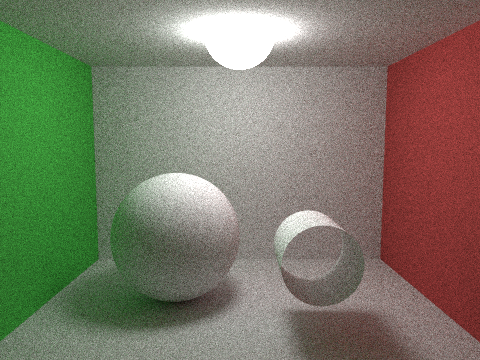
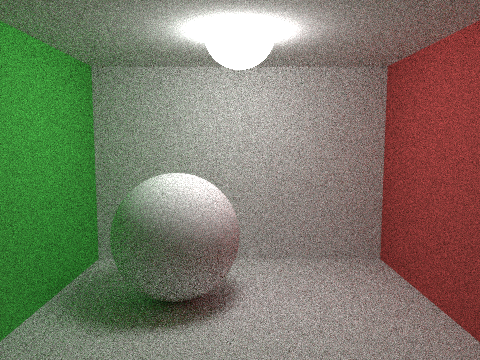
Hacked in Monte Carlo Integration using cosine hemisphere PDF

diff --git a/src/main.rs b/src/main.rs
@@ -12,6 +12,7 @@ use crate::material::{Diffuse, Light};
 use crate::ray::Ray;
 use crate::scene::Scene;
 use crate::sphere::Sphere;
+use std::f32::consts::PI;
 
 mod bounds;
 mod bvh;
@@ -66,7 +67,9 @@ fn cast_ray(ray: &Ray, scene: &Scene, depth: u32, rng: &mut ThreadRng) -> Colour
         if let Some(material) = scene.materials.get(rec.material_id) {
             let emitted = material.emitted(0.0, 0.0, &rec.point);
             if let Some((scattered, colour)) = material.scatter(ray, &rec, rng) {
-                pixel_colour += emitted + colour * cast_ray(&scattered, scene, depth - 1, rng);
+                let pdf = 0.5 / PI;
+                pixel_colour +=
+                    emitted + colour * cast_ray(&scattered, scene, depth - 1, rng) / pdf;
             } else {
                 pixel_colour += emitted;
             }
@@ -74,8 +77,43 @@ fn cast_ray(ray: &Ray, scene: &Scene, depth: u32, rng: &mut ThreadRng) -> Colour
             pixel_colour = Colour::error();
         }
     }
+    // else {
+    //     pixel_colour = Colour::new(1.0, 1.0, 1.0);
+    // }
 
     pixel_colour
+}
+
+fn furnace_test(aspect_ratio: f32) -> (Scene, Camera) {
+    let mut scene = Scene::default();
+
+    let sphere_mat = scene.add_material(Box::new(Diffuse::new(Colour::new(0.18, 0.18, 0.18))));
+
+    let sphere = Sphere::new(Vec3::new(0.0, 0.0, 0.0), 1.0, sphere_mat, false);
+    scene.add_object(Box::new(sphere));
+
+    scene.generate_bvh();
+
+    // Camera Setup
+    let origin = Vec3::new(0.0, 0.0, -5.0);
+    let target = Vec3::new(0.0, 0.0, 0.0);
+    let up = Vec3::new(0.0, 1.0, 0.0);
+    let fov = 50.0;
+    let aperture = 0.0;
+    let focus_distance = 10.0;
+    let camera = Camera::new(
+        origin,
+        target,
+        up,
+        fov,
+        aspect_ratio,
+        aperture,
+        focus_distance,
+        0.001,
+        std::f32::INFINITY,
+    );
+
+    (scene, camera)
 }
 
 fn scene_setup(aspect_ratio: f32) -> (Scene, Camera) {
@@ -88,7 +126,7 @@ fn scene_setup(aspect_ratio: f32) -> (Scene, Camera) {
     let right_wall_mat = scene.add_material(Box::new(Diffuse::new(Colour::new(0.1, 0.6, 0.1))));
     let sphere_mat = scene.add_material(Box::new(Diffuse::new(Colour::new(0.8, 0.8, 0.8))));
     // let sphere_mat2 = scene.add_material(Box::new(Diffuse::new(Colour::new(1.0, 0.0, 0.0))));
-    let cylinder_mat = scene.add_material(Box::new(Diffuse::new(Colour::new(0.9, 0.9, 0.9))));
+    // let cylinder_mat = scene.add_material(Box::new(Diffuse::new(Colour::new(0.9, 0.9, 0.9))));
     let light_mat = scene.add_material(Box::new(Light::new(Colour::new(1.0, 1.0, 1.0), 20.0)));
 
     // Objects Setup
@@ -108,8 +146,8 @@ fn scene_setup(aspect_ratio: f32) -> (Scene, Camera) {
     // let sphere2 = Sphere::new(Vec3::new(-1.0, 0.0, 1.0), 1.0, sphere_mat, false);
     // scene.add_object(Box::new(sphere2));
 
-    let pos = Vec3::new(-1.0, 0.0, 0.0);
-    let y_rot = 0.0_f32.to_radians();
+    // let pos = Vec3::new(-1.0, 0.0, 0.0);
+    // let y_rot = 0.0_f32.to_radians();
     // let mut otw = Mat4::from_translation(pos);
     // let rot = Mat4::from_rotation_y(y_rot);
     // otw = otw * rot;
@@ -117,16 +155,16 @@ fn scene_setup(aspect_ratio: f32) -> (Scene, Camera) {
     // let rot = Mat4::from_rotation_y(-y_rot);
     // wto = rot * wto;
     // let cylinder = Cylinder::from_transform(otw, wto, 0.5, -0.5, 0.5, cylinder_mat, false);
-    let cylinder = Cylinder::new(
-        pos,
-        0.5,
-        1.0,
-        Rotor3::from_rotation_xz(y_rot),
-        1.0,
-        cylinder_mat,
-        false,
-    );
-    scene.add_object(Box::new(cylinder));
+    // let cylinder = Cylinder::new(
+    //     pos,
+    //     0.5,
+    //     1.0,
+    //     Rotor3::from_rotation_xz(y_rot),
+    //     1.0,
+    //     cylinder_mat,
+    //     false,
+    // );
+    // scene.add_object(Box::new(cylinder));
 
     // Lighting setup
     let pos = Vec3::new(0.0, 3.0, 0.5);
@@ -194,6 +232,7 @@ fn main() {
     // TODO: Support parsing a file for scene setup
     // Setup scene and camera
     let (scene, camera) = scene_setup(ASPECT_RATIO);
+    // let (scene, camera) = furnace_test(ASPECT_RATIO);
 
     // Output image
     let mut image = image::ImageBuffer::new(IMAGE_WIDTH, IMAGE_HEIGHT);

diff --git a/src/material.rs b/src/material.rs
@@ -1,10 +1,11 @@
 use crate::colour::Colour;
 use crate::intersectable::IntersectRecord;
 use crate::ray::Ray;
+use crate::utils::{create_coordinates_system, uniform_sample_hemisphere};
 use rand::prelude::ThreadRng;
 use rand::Rng;
-use std::f64::consts::PI;
-use ultraviolet::Vec3;
+use std::f32::consts::PI;
+use ultraviolet::{Mat3, Vec3};
 
 #[derive(Default, Copy, Clone, Debug)]
 pub struct MaterialID(usize);
@@ -63,30 +64,15 @@ impl Material for Diffuse {
         rec: &IntersectRecord,
         rng: &mut ThreadRng,
     ) -> Option<(Ray, Colour)> {
-        let w = if rec.normal.dot(ray.direction) < 0.0 {
-            rec.normal
-        } else {
-            -rec.normal
-        };
-        let phi = rng.gen::<f64>() * 2.0 * PI;
-        let r2: f64 = rng.gen();
-        let sin_theta = r2.sqrt();
-        let cos_theta = (1.0 - r2).sqrt();
-        let u = (if w.x.abs() > 0.1 {
-            Vec3::new(0.0, 1.0, 0.0)
-        } else {
-            Vec3::new(1.0, 0.0, 0.0)
-        })
-        .cross(w)
-        .normalized();
-        let v = w.cross(u);
-        let d = (u * (phi.cos() * sin_theta) as f32
-            + v * (phi.sin() * sin_theta) as f32
-            + w * cos_theta as f32)
-            .normalized();
-
-        let scattered = Ray::new(rec.point, d, ray.t_min, ray.t_max);
-        let colour = self.albedo;
+        let r1 = rng.gen::<f32>();
+        let r2 = rng.gen::<f32>();
+        let n = rec.normal;
+        let (nt, nb) = create_coordinates_system(&n);
+        let scattered_local = uniform_sample_hemisphere(r1, r2);
+        let scattered_dir = scattered_local.x * nt + scattered_local.y * nb + scattered_local.z * n;
+        let scattered = Ray::new(rec.point, scattered_dir, ray.t_min, ray.t_max);
+        let cosine = r1 / PI;
+        let colour = self.albedo * cosine;
 
         Some((scattered, colour))
     }

diff --git a/src/utils.rs b/src/utils.rs
@@ -88,3 +88,26 @@ where
         data.swap(l, r);
     }
 }
+
+#[allow(dead_code)]
+#[inline]
+pub fn create_coordinates_system(n: &Vec3) -> (Vec3, Vec3) {
+    let sign = 1.0_f32.copysign(n.z);
+    let a = -1.0 / (sign + n.z);
+    let b = n.x * n.y * a;
+    let b1 = Vec3::new(1.0 + sign * n.x * n.x * a, sign * b, -sign * n.x);
+    let b2 = Vec3::new(b, sign + n.y * n.y * a, -n.y);
+
+    (b1, b2)
+}
+
+#[allow(dead_code)]
+#[inline]
+pub fn uniform_sample_hemisphere(r1: f32, r2: f32) -> Vec3 {
+    let sin_theta = (1.0 - r1.powi(2)).sqrt();
+    let phi = 2.0 * PI * r2;
+    let x = sin_theta * phi.cos();
+    let y = sin_theta * phi.sin();
+
+    Vec3::new(x, y, r1)
+}
